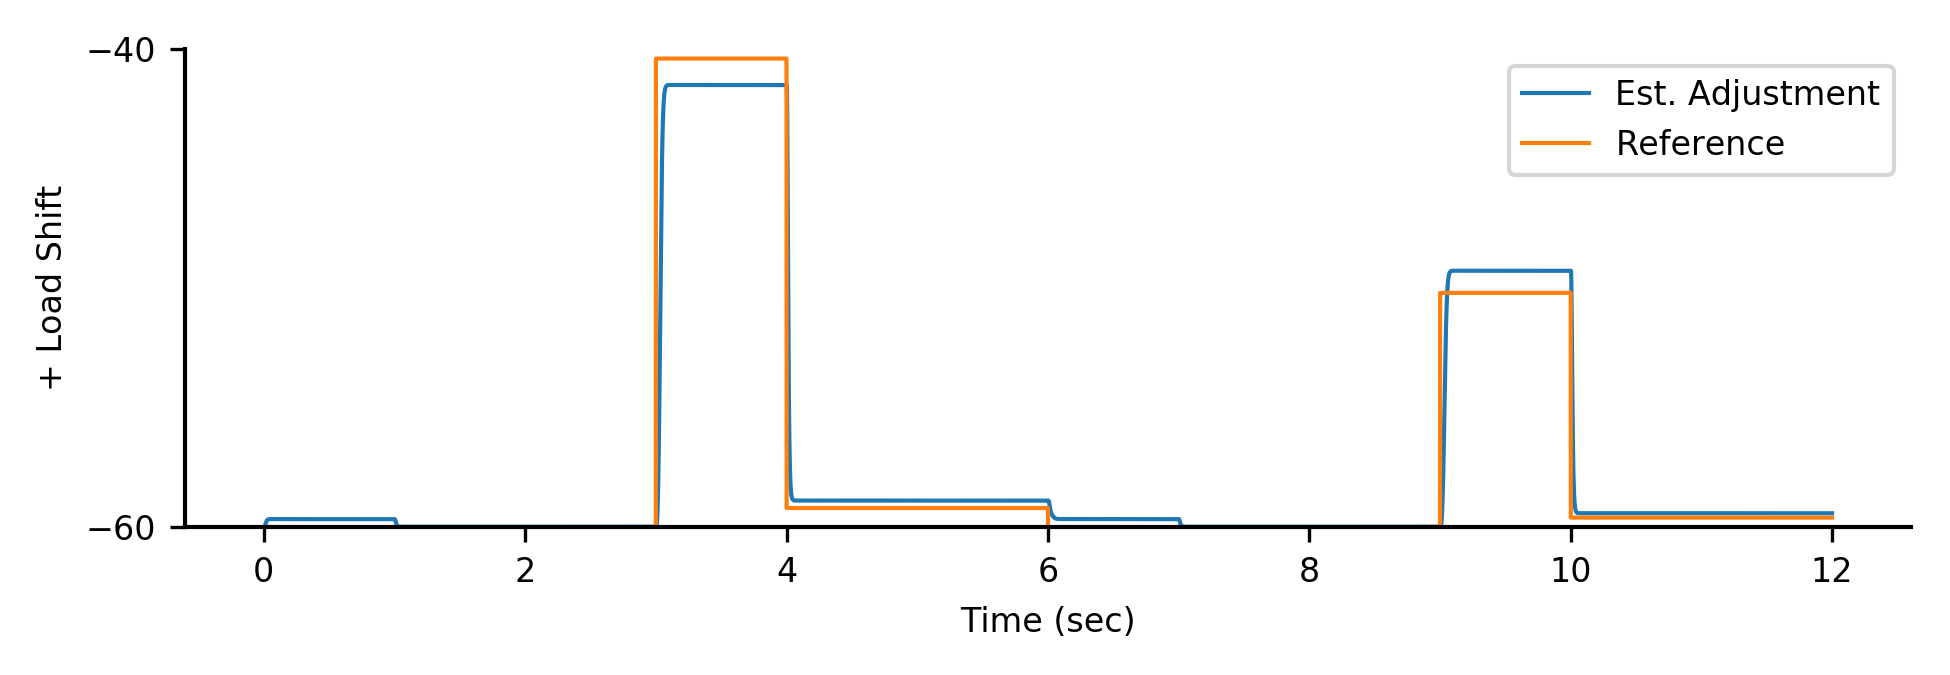
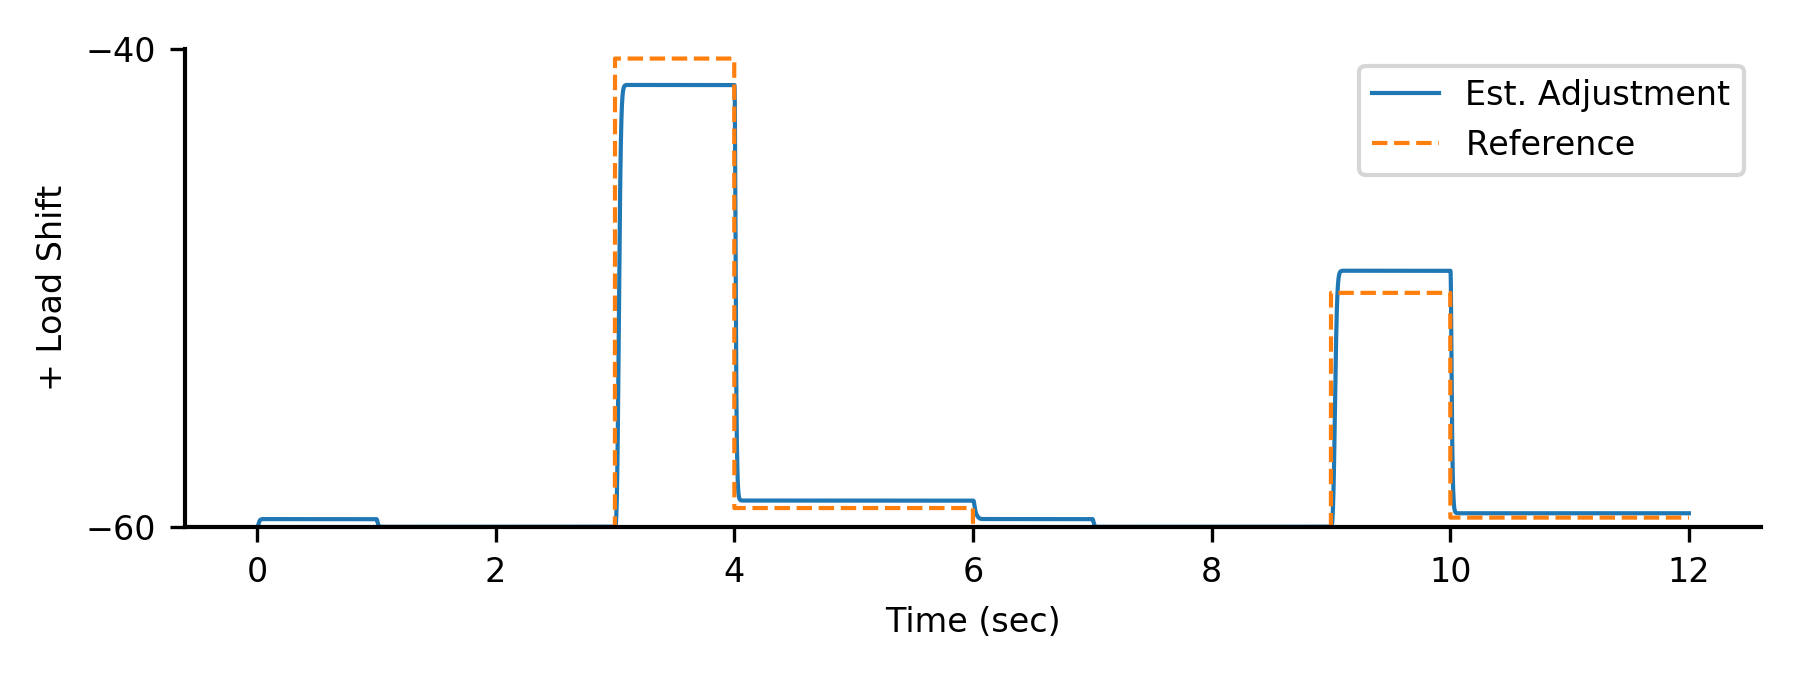
System est scripts redashed

diff --git a/writeup/scripts/plot_SystemN.py b/writeup/scripts/plot_SystemN.py
@@ -75,13 +75,13 @@ for name, datasets in setup:
     # else:
     #     ax = ax2
     count += 1
-    fig = plt.figure(figsize=(6.5,2.25,), dpi=300)
+    fig = plt.figure(figsize=(6,2.25,), dpi=300)
     ax = fig.add_subplot('111')
 
     vel, ref = datasets
     # print(len(time))
     ax.plot(time[5000:], vel[5000:], linewidth=linewidth, label='Est. Adjustment')
-    ax.plot(time[5000:], ref[5000:], linewidth=linewidth, label='Reference')
+    ax.plot(time[5000:], ref[5000:], linewidth=linewidth, linestyle='dashed', label='Reference')
     
     if count == 1:
         ax.set_ylabel('+ Load Shift')

diff --git a/writeup/scripts/plot_SystemC.py b/writeup/scripts/plot_SystemC.py
@@ -75,13 +75,13 @@ for name, datasets in setup:
     # else:
     #     ax = ax2
     count += 1
-    fig = plt.figure(figsize=(6.5,2.25,), dpi=300)
+    fig = plt.figure(figsize=(6, 2.25,), dpi=300)
     ax = fig.add_subplot('111')
 
     vel, ref = datasets
     # print(len(time))
     ax.plot(time[5000:], vel[5000:], linewidth=linewidth, label='Est. Adjustment')
-    ax.plot(time[5000:], ref[5000:], linewidth=linewidth, label='Reference')
+    ax.plot(time[5000:], ref[5000:], linewidth=linewidth, linestyle='dashed', label='Reference')
 
     if count == 1:
         ax.set_ylabel('+ Damp Shift')
